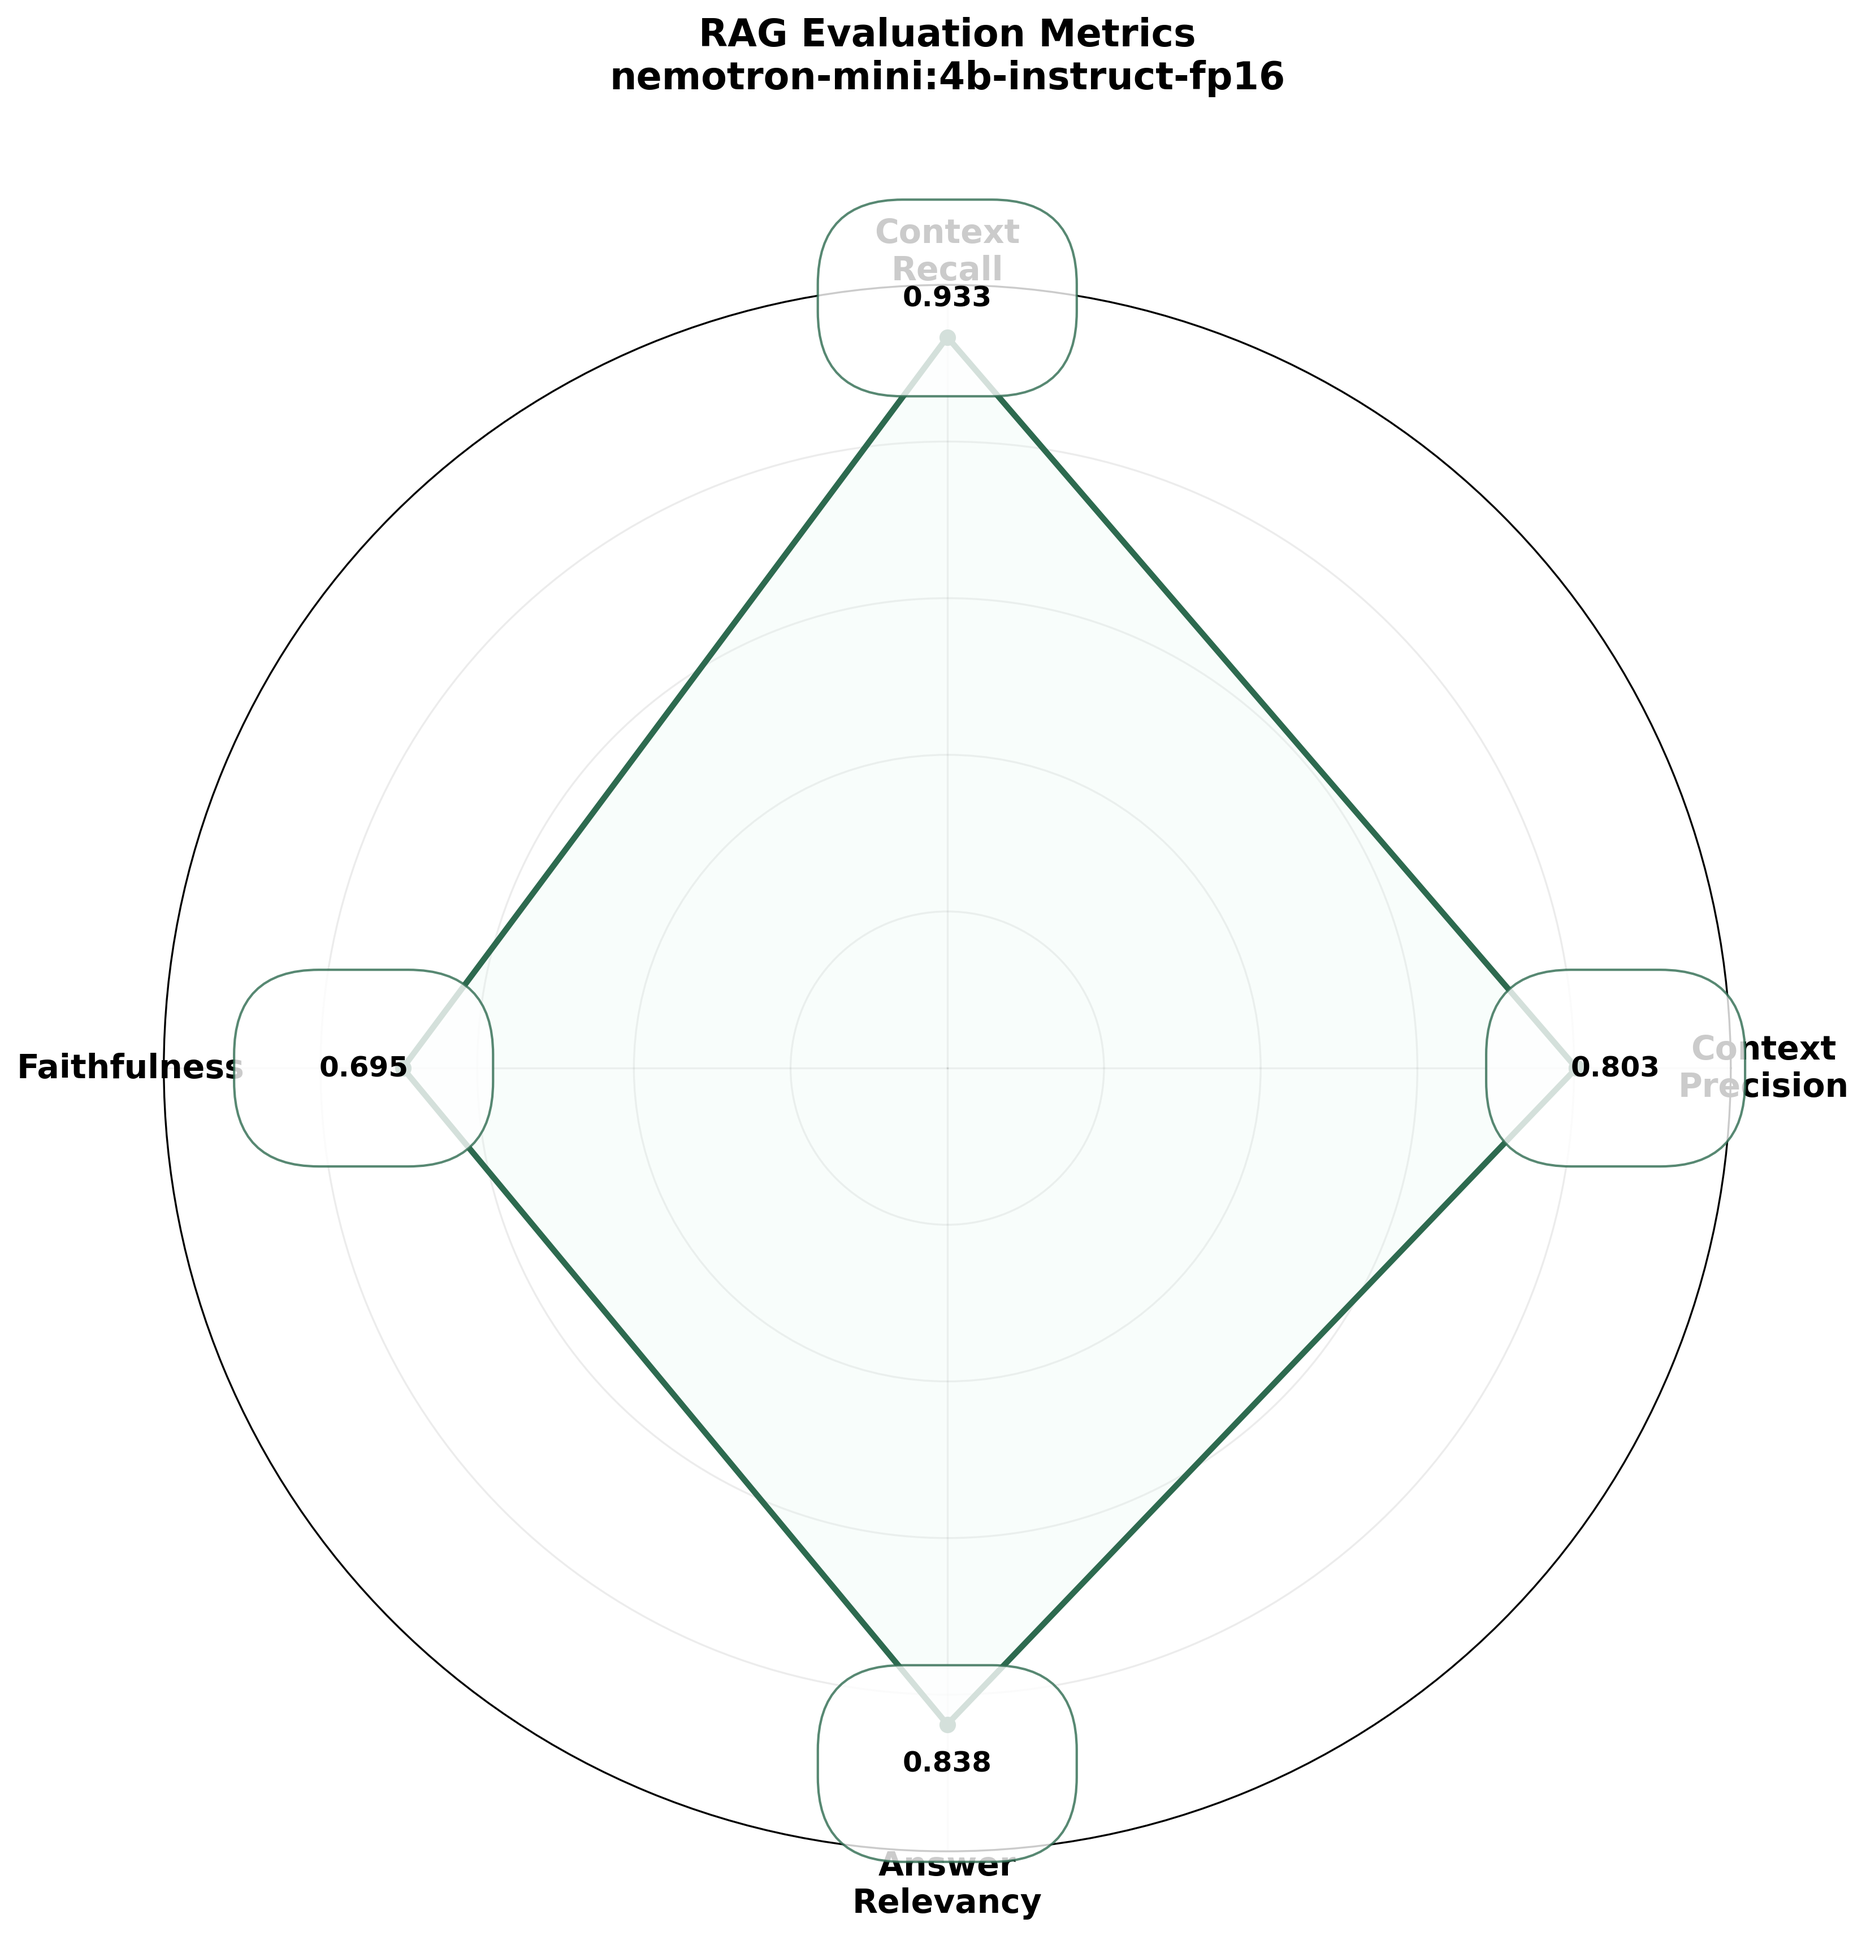
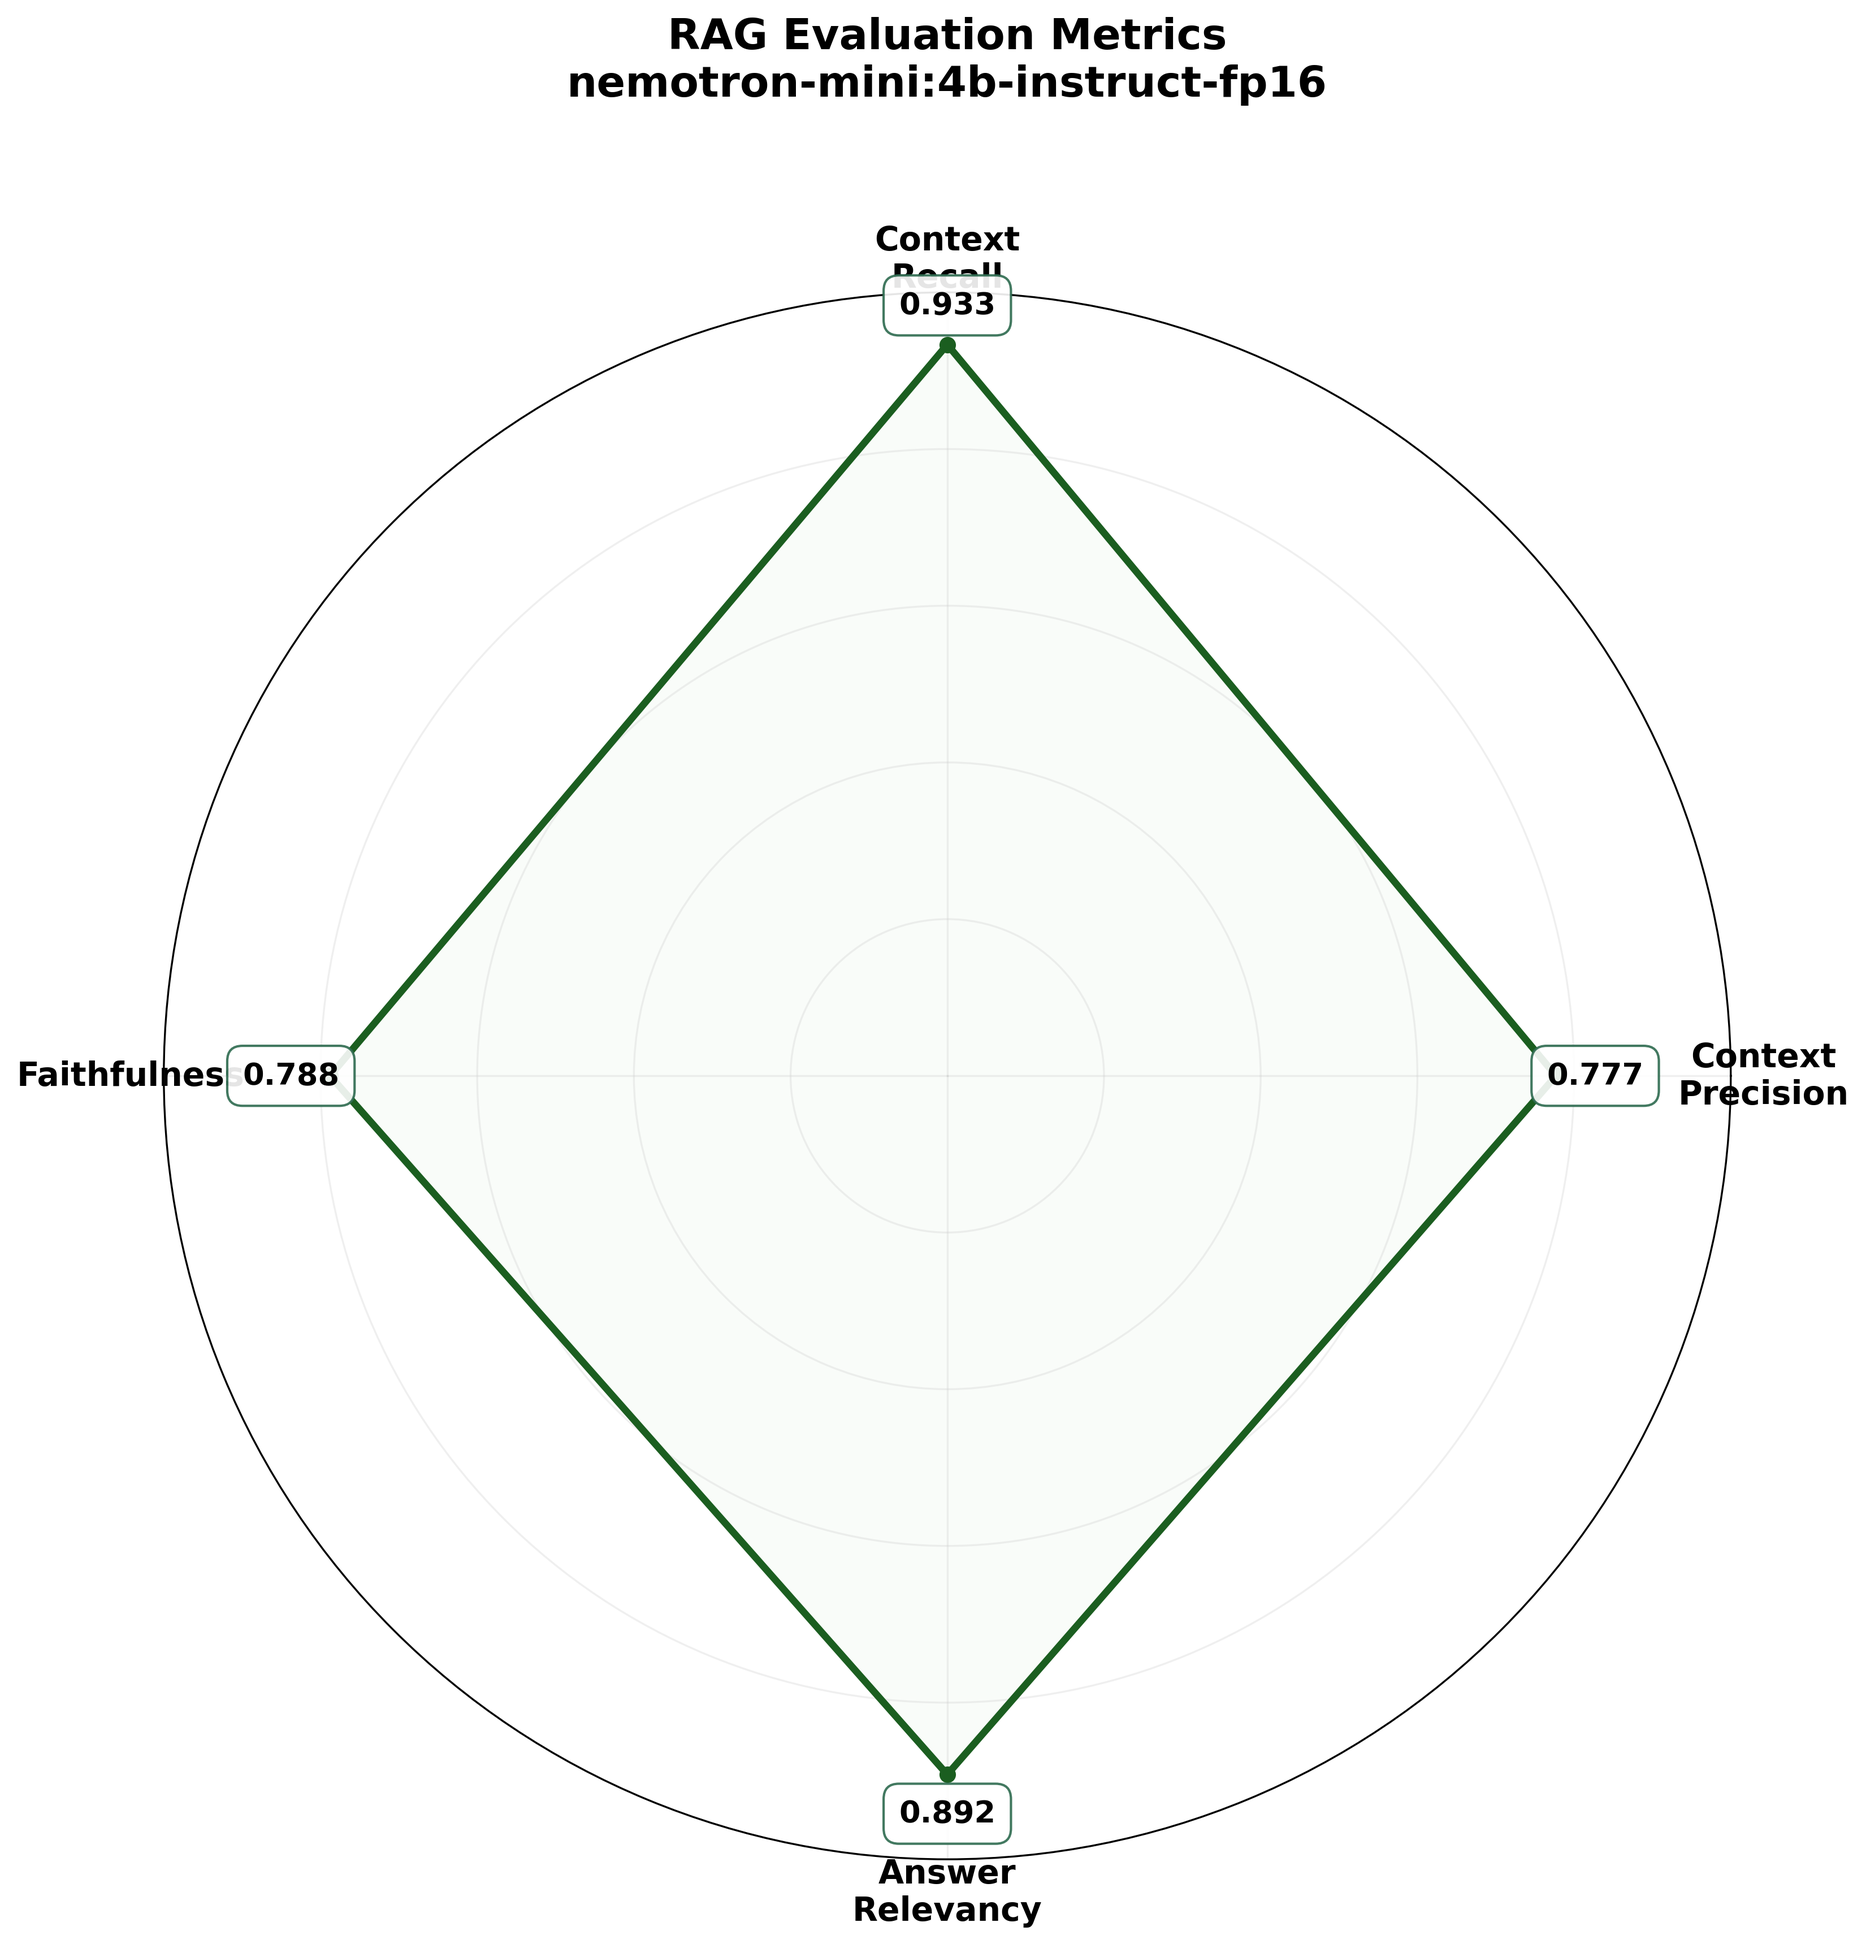
c10

diff --git a/benchmarks/Ragas/evaluation.py b/benchmarks/Ragas/evaluation.py
@@ -10,6 +10,7 @@ import textwrap
 import numpy as np
 from typing import Dict
 import matplotlib.colors as mcolors
+import time
 
 def clean_thinks(dataset: Dataset) -> Dataset:
     """
@@ -28,13 +29,18 @@ def evaluate_results(cleaned_dataset, evaluator_llm):
     print("Starting evaluation of results with metrics...")
     from ragas import evaluate
     from ragas.metrics import context_precision, context_recall, faithfulness, answer_relevancy
-    result = evaluate(
-        dataset=cleaned_dataset,
-        metrics=[context_precision, context_recall, faithfulness, answer_relevancy],
-        llm=evaluator_llm
-    )
-    print("Evaluation completed.")
-    return result
+
+    try:
+        result = evaluate(
+            dataset=cleaned_dataset,
+            metrics=[context_precision, context_recall, faithfulness, answer_relevancy],
+            llm=evaluator_llm
+        )
+        print("Evaluation completed.")
+        return result
+    except Exception as e:
+        print(f"Error during evaluation: {str(e)}")
+        raise e
 
 def save_metrics(result, filename):
     """
@@ -194,10 +200,41 @@ def plot_split_heatmaps(result, base_filename, questions_per_plot=15):
             base_filename.replace('.png', f'_part{i+1}.png')
         )
 
+def get_color_scheme(strategy):
+    """
+    Returns color scheme based on retrieval strategy.
+    """
+    schemes = {
+        'dense': {
+            'main': '#d35400',  # Strong orange
+            'fill': '#ffeee6',  # Light orange
+            'edge': '#a04000'   # Dark orange
+        },
+        'hybrid': {
+            'main': '#0d472e',  # Strong green
+            'fill': '#e1f5e9',  # Light green
+            'edge': '#0a3622'   # Dark green
+        },
+        'sparse': {
+            'main': '#5b2c6f',  # Strong purple
+            'fill': '#f4e6f5',  # Light purple
+            'edge': '#4a235a'   # Dark purple
+        }
+    }
+    return schemes.get(strategy, schemes['hybrid'])  # Default to hybrid if strategy not found
+
 def plot_average_metrics(result, image_filename):
     """
     Plot average metrics using a radar chart with improved aesthetics.
     """
+    # Get model name and retrieval strategy from filename
+    filename_parts = os.path.basename(image_filename).split('_')
+    model_name = filename_parts[0]
+    retrieval_strategy = filename_parts[1]  # This will get 'hybrid' from the filename
+    
+    # Get color scheme based on strategy
+    colors = get_color_scheme(retrieval_strategy)
+    
     # Convert to DataFrame if it's not already one
     df = result if isinstance(result, pd.DataFrame) else result.to_pandas()
     
@@ -206,7 +243,7 @@ def plot_average_metrics(result, image_filename):
     avg_scores = df[metrics].mean()
     
     # Set up the figure with white background
-    plt.figure(figsize=(12, 12), facecolor='white')
+    plt.figure(figsize=(14, 14), facecolor='white')
     ax = plt.subplot(111, projection='polar')
     ax.set_facecolor('white')
 
@@ -215,24 +252,24 @@ def plot_average_metrics(result, image_filename):
     values = np.concatenate((avg_scores, [avg_scores[0]]))
     angles = np.concatenate((angles, [angles[0]]))
 
-    # Plot data with improved visibility
-    ax.fill(angles, values, color='#e8f5e9', alpha=0.25)
-    ax.plot(angles, values, 'o-', linewidth=3, color='#1b5e20')
+    # Plot data with strategy-specific colors
+    ax.fill(angles, values, color=colors['fill'], alpha=0.4)
+    ax.plot(angles, values, 'o-', linewidth=4, color=colors['main'], markersize=10)
     
     # Add value annotations with better visibility
     for angle, value in zip(angles[:-1], values[:-1]):
         text_radius = value + 0.05
-        # Add rounded box around values
         ax.text(angle, text_radius, f'{value:.3f}', 
                 ha='center', va='center',
                 color='black',
-                fontsize=13,
+                fontsize=16,
                 fontweight='bold',
                 bbox=dict(
                     facecolor='white',
-                    edgecolor='#2d6a4f',
-                    boxstyle='round,pad=0.5',
-                    alpha=0.9
+                    edgecolor=colors['edge'],
+                    boxstyle='round,pad=0.6',
+                    alpha=0.95,
+                    linewidth=2
                 ))
     
     # Set chart properties with improved formatting
@@ -240,7 +277,7 @@ def plot_average_metrics(result, image_filename):
     metric_labels = [m.replace('_', '\n').title() for m in metrics]
     ax.set_xticklabels(metric_labels,
                        color='black',
-                       fontsize=14,
+                       fontsize=18,
                        fontweight='bold')
     
     # Remove radial labels and set limits
@@ -248,15 +285,17 @@ def plot_average_metrics(result, image_filename):
     ax.set_ylim(0, 1)
     
     # Add subtle grid
-    ax.grid(True, color='#cccccc', alpha=0.3)
+    ax.grid(True, color='#cccccc', alpha=0.3, linewidth=1.5)
     
-    # Add title with improved formatting
-    model_name = os.path.basename(image_filename).split('_')[0]
-    plt.title('RAG Evaluation Metrics\n' + model_name, 
+    # Format model name for better display
+    model_display = model_name.replace('-', ' ').replace(':', '\n')
+    
+    # Add formatted title
+    plt.title(f'{model_display}\n{retrieval_strategy}', 
               color='black',
-              pad=30,
-              y=1.08,
-              fontsize=18,
+              pad=40,
+              y=1.1,
+              fontsize=24,
               fontweight='bold')
     
     # Save figure
